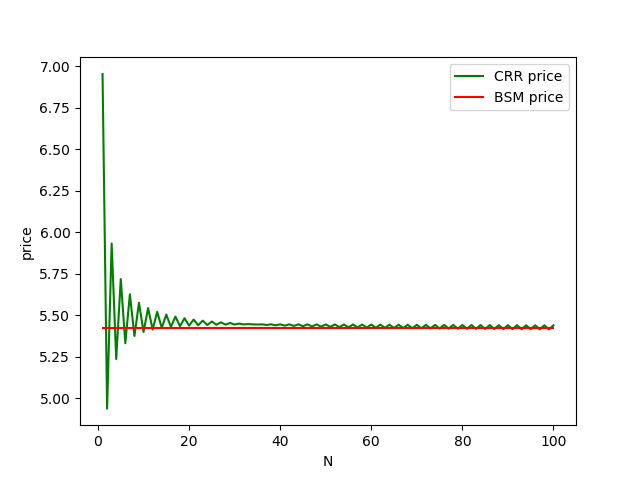
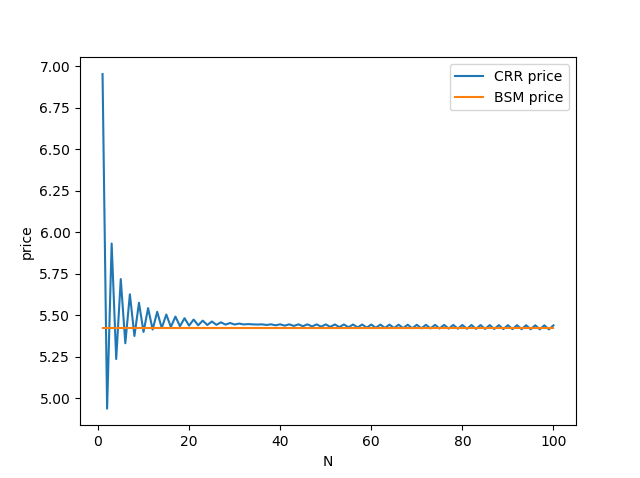
0801

Changed region(s): [[0.1562, 0.1464, 0.875, 0.8494], [0.7188, 0.1464, 0.75, 0.205]]

diff --git a/programs/wealth_process.py b/programs/wealth_process.py
@@ -16,7 +16,7 @@ class optimal_wealth_process():
         self.r = 0.01
         self.u = 0.2
         self.l = -0.2
-        self.T = 60000
+        self.T = 250
         self.R_bar = self.p * self.u + (1 - self.p) * self.l # = 0.02
         self.X_0 = X_0
         self.X_t = self.X_0
@@ -41,12 +41,50 @@ class optimal_wealth_process():
             X_t_process.append(self.X_t)
             X_t_mean_process.append(self.X_t_mean)
             
-        #plt.plot(time, X_t_process, label="wealth")
-        #plt.plot(time, X_t_mean_process, label="mean of wealth")
+            #print(X_t_mean_process)
+            
+        return time, X_t_process, X_t_mean_process        
+        
+    def sample_plot(self):
+        
+        time, X_t_process, X_t_mean_process = self.optimal_wealth()
+        
+        plt.plot(time, X_t_process, label="wealth")
+        plt.plot(time, X_t_mean_process, label="mean of wealth")
         plt.legend(loc='upper left')
         plt.xlabel("time")
         plt.ylabel("wealth")
         plt.show()
+    
+    
+    def sample_sd_plot(self):
+        
+        time, X_t_process, X_t_mean_process = self.optimal_wealth()
+        X_t_mean_process = np.array(X_t_mean_process)
+
+        sample_sd = self.calc_sd()
+             
+        plt.fill_between(time, X_t_mean_process - sample_sd, X_t_mean_process + sample_sd, facecolor='g', alpha=0.2)
+        plt.xlabel("time")
+        plt.ylabel("standard deviation")
+        plt.show()
+        
+    def calc_sd(self):
+        
+        N = 30
+        sample_collection = []
+        
+        for i in range(N):
+            time, X_t_process, X_t_mean_process = self.optimal_wealth()
+            
+            sample_collection.append(X_t_process)
+            
+        sample_collection = np.array(sample_collection)
+        
+        sample_sd = np.std(sample_collection, axis=0)
+        
+        return sample_sd
+    
         
     def log_process(self):
         
@@ -73,5 +111,6 @@ class optimal_wealth_process():
 
 optimal_wealth_process = optimal_wealth_process(X_0=1)
 
-#optimal_wealth_process.optimal_wealth()
-optimal_wealth_process.log_process()
+optimal_wealth_process.sample_plot()
+#optimal_wealth_process.sample_sd_plot()
+#optimal_wealth_process.log_process()

diff --git a/programs/CRR_to_BSM.py b/programs/CRR_to_BSM.py
@@ -16,7 +16,7 @@ class CRR_to_BSM():
         self.init_S1 = 100
         self.K = 100
         self.T = 3
-        self.r = 0.01
+        self.r = 0.001
         self.sigma = 0.1
         
     # l and u under risk neutral
@@ -78,7 +78,7 @@ class CRR_to_BSM():
     # backward inductive equation
     def backward(self):
         
-        N_list = [i+1 for i in range(100)]
+        N_list = [i for i in range(300) if i%2==1]
         CRR_price_list = []
         BSM_price_list = [self.BSM_price_put()]*len(N_list)
         
@@ -109,8 +109,8 @@ class CRR_to_BSM():
             CRR_price_list.append(no_arbitrage)
         
         print(BSM_price_list[0])
-        plt.plot(N_list, CRR_price_list, label="CRR price", c='g')
-        plt.plot(N_list, BSM_price_list, label="BSM price", c='r')
+        plt.plot(N_list, CRR_price_list, label="CRR price")
+        plt.plot(N_list, BSM_price_list, label="BSM price")
         plt.legend(loc='upper right')
         plt.xlabel("N")
         plt.ylabel("price")
